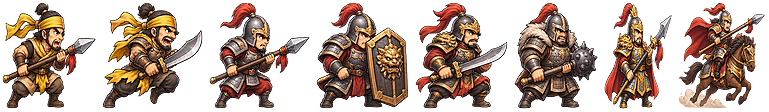
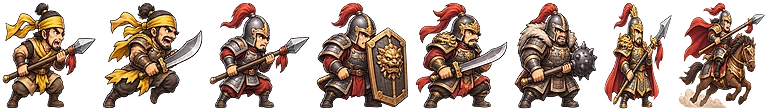
천하등용 v31.1: 용량 최적화 (초상화·잡병·아이콘 압축, BGM 재생 시 받기)
Claude-Session: https://claude.ai/code/session_01BVqfE2Sn6zpjLgsaXe4aDW

diff --git a/index.html b/index.html
@@ -2079,7 +2079,7 @@ window.sell=(orig=>function(i){const u=G.slots[i];if(u&&u.d.g>=2&&!(G.sellArm===
   RECIPES.push({out:'m_jangbi',in:['jangbi','gwanpyeong','madae']},{out:'m_samaui',in:['samaui','join','jangryo']},{out:'m_juyu',in:['juyu','yukson','hwanggae']},{out:'m_wonso',in:['wonso','anryang','munchu']});
   RECIPES.slice(-4).forEach(R=>R.in.forEach(id=>KEEP.add(id)));})();
 /* v30h→v30.3: 시나리오·끝없는 전장 음원 (보스가 나오면 보스 BGM). 끊김 수정: 잠금 해제가 재생 중인 곡을 멈추던 문제, 끊긴 곡 자동 재시도, 화면 나갔다 오면 이어 재생, 보스 뒤 전투곡 이어 듣기 */
-(function(){if(!window.Audio)return;const A={};const VOL={bgm_battle:.38,bgm_boss:.5,bgm_menu:.5};['bgm_battle','bgm_boss','bgm_menu'].forEach(k=>{try{const a=new Audio('audio/'+k+'.mp3');a.loop=true;a.preload=k==='bgm_menu'?'auto':'metadata';a.volume=VOL[k];A[k]=a;}catch(e){}});let cur=null,unl=false,bossT=0,tries=0;
+(function(){if(!window.Audio)return;const A={};const VOL={bgm_battle:.38,bgm_boss:.5,bgm_menu:.5};['bgm_battle','bgm_boss','bgm_menu'].forEach(k=>{try{const a=new Audio('audio/'+k+'.mp3');a.loop=true;a.preload='metadata';a.volume=VOL[k];A[k]=a;}catch(e){}});let cur=null,unl=false,bossT=0,tries=0;
   const play=a=>{try{const p=a.play();if(p&&p.catch)p.catch(()=>{});}catch(e){}};
   const set=w=>{if(cur===w){const a=cur&&A[cur];if(a&&a.paused&&tries<40){tries++;play(a);}return;}tries=0;if(cur&&A[cur])try{A[cur].pause();}catch(e){}cur=w;if(w&&A[w]){if(w==='bgm_boss')try{A[w].currentTime=0;}catch(e){}play(A[w]);}};
   const want=()=>{const ok=!!(SAVE.opt.bgm&&unl&&!document.hidden);if(!ok)return null;if(!(G&&!G.over))return 'bgm_menu';const boss=G.enemies.some(e=>e.boss);if(boss)bossT=Date.now();return (boss||Date.now()-bossT<2500)&&A.bgm_boss?'bgm_boss':'bgm_battle';};

diff --git a/zh.html b/zh.html
@@ -2074,7 +2074,7 @@ window.sell=(orig=>function(i){const u=G.slots[i];if(u&&u.d.g>=2&&!(G.sellArm===
   RECIPES.push({out:'m_jangbi',in:['jangbi','gwanpyeong','madae']},{out:'m_samaui',in:['samaui','join','jangryo']},{out:'m_juyu',in:['juyu','yukson','hwanggae']},{out:'m_wonso',in:['wonso','anryang','munchu']});
   RECIPES.slice(-4).forEach(R=>R.in.forEach(id=>KEEP.add(id)));})();
 /* v30h→v30.3: 시나리오·끝없는 전장 음원 (보스가 나오면 보스 BGM). 끊김 수정: 잠금 해제가 재생 중인 곡을 멈추던 문제, 끊긴 곡 자동 재시도, 화면 나갔다 오면 이어 재생, 보스 뒤 전투곡 이어 듣기 */
-(function(){if(!window.Audio)return;const A={};const VOL={bgm_battle:.38,bgm_boss:.5,bgm_menu:.5};['bgm_battle','bgm_boss','bgm_menu'].forEach(k=>{try{const a=new Audio('audio/'+k+'.mp3');a.loop=true;a.preload=k==='bgm_menu'?'auto':'metadata';a.volume=VOL[k];A[k]=a;}catch(e){}});let cur=null,unl=false,bossT=0,tries=0;
+(function(){if(!window.Audio)return;const A={};const VOL={bgm_battle:.38,bgm_boss:.5,bgm_menu:.5};['bgm_battle','bgm_boss','bgm_menu'].forEach(k=>{try{const a=new Audio('audio/'+k+'.mp3');a.loop=true;a.preload='metadata';a.volume=VOL[k];A[k]=a;}catch(e){}});let cur=null,unl=false,bossT=0,tries=0;
   const play=a=>{try{const p=a.play();if(p&&p.catch)p.catch(()=>{});}catch(e){}};
   const set=w=>{if(cur===w){const a=cur&&A[cur];if(a&&a.paused&&tries<40){tries++;play(a);}return;}tries=0;if(cur&&A[cur])try{A[cur].pause();}catch(e){}cur=w;if(w&&A[w]){if(w==='bgm_boss')try{A[w].currentTime=0;}catch(e){}play(A[w]);}};
   const want=()=>{const ok=!!(SAVE.opt.bgm&&unl&&!document.hidden);if(!ok)return null;if(!(G&&!G.over))return 'bgm_menu';const boss=G.enemies.some(e=>e.boss);if(boss)bossT=Date.now();return (boss||Date.now()-bossT<2500)&&A.bgm_boss?'bgm_boss':'bgm_battle';};

diff --git a/legion_ui.js b/legion_ui.js
@@ -44,7 +44,7 @@ function mount(ad){
     die:()=>{nz(.28,.2,700);tn(72,.32,'sine',.22,.6);},win:()=>[523,659,784,1047].forEach((f,i)=>tn(f,.4,'triangle',.11,0,i*.13)),lose:()=>[392,330,262].forEach((f,i)=>tn(f,.45,'triangle',.09,0,i*.2)),
     tap:()=>tn(880,.05,'square',.025),gong:()=>{tn(110,2.2,'sine',.24);tn(165,1.7,'sine',.09);nz(.3,.06,500);}};
   function sfx(k){try{if(k==='hit'){const t=performance.now();if(t-AU.lastHit<90)return;AU.lastHit=t;}const FM={hit:['sfx_hit',.3],big:['sfx_drum',.5],gong:['sfx_gong',.5],win:['sfx_victory',.6]};if(FM[k]&&playF(FM[k][0],FM[k][1]))return;SFX[k]&&SFX[k]();}catch(e){}}
-  const AF={};if(root.Audio)['bgm_legion','bgm_boss','bgm_menu','sfx_hit','sfx_gong','sfx_drum','sfx_victory'].forEach(k=>{try{const a=new root.Audio('audio/'+k+'.mp3');a.preload='auto';if(k.startsWith('bgm'))a.loop=true;AF[k]=a;}catch(e){}});
+  const AF={};if(root.Audio)['bgm_legion','bgm_boss','bgm_menu','sfx_hit','sfx_gong','sfx_drum','sfx_victory'].forEach(k=>{try{const a=new root.Audio('audio/'+k+'.mp3');a.preload=k.startsWith('bgm')?'metadata':'auto';if(k.startsWith('bgm'))a.loop=true;AF[k]=a;}catch(e){}});
   function playF(k,v){const a=AF[k];if(!a||AU.mute)return false;try{const c=k.startsWith('bgm')?a:a.cloneNode();c.volume=v;if(!k.startsWith('bgm'))c.currentTime=0;const pr=c.play();if(pr&&pr.catch)pr.catch(()=>{});}catch(e){return false;}return true;}
   function bgmFile(want){if(AU.cur===want){const a=want&&AF[want];if(a&&a.paused&&(AU.tries=(AU.tries|0)+1)<40)playF(want,want==='bgm_legion'?.38:.5);return;}AU.tries=0;if(AU.cur&&AF[AU.cur])try{AF[AU.cur].pause();}catch(e){}AU.cur=want;if(want){if(want==='bgm_boss')try{AF[want].currentTime=0;}catch(e){}playF(want,want==='bgm_legion'?.38:.5);}}
   const PENT=[294,330,392,440,494,587,659];

diff --git a/sw.js b/sw.js
@@ -1,5 +1,5 @@
 // Offline support: online -> newest files first, offline -> saved copy.
-const CACHE='cheonha-main-2';
+const CACHE='cheonha-main-3';
 // 이 캐시는 /cheonha/ 루트의 천하등용 파일만 다룬다. 다른 게임 폴더(town, wolchuk 등)는 건드리지 않는다.
 const OWN=/^(?:[^/]*|(?:art|audio|sd)\/.*)$/;
 const OLD=['cheonha-','cheonhav30sd-','cheonhav28test-','cheonhav20test-'];

diff --git a/docs/cheonha/HANDOFF.md b/docs/cheonha/HANDOFF.md
@@ -14,13 +14,13 @@
 - legion_core.js(전투 계산, step/dmg/cast 밸런스 기준) / legion_ui.js(캔버스 화면). 증원군(출전3+증원3, 관문 5/15/30 해금), 자동/수동, 군략 카드 3종.
 - platform.js: 통계 CH_TRACK + 보상형 광고 CH_AD (네 화면 공통, 미니게임 이식 때 이 파일만 교체). 실제 광고는 window.CHEONHA_REWARDED_AD.show({placement})→Promise<bool> 하나만 넣으면 전부 연결. ?stats=1 로 기기 통계 보기.
 - legal.html / legal-zh.html: 약관·개인정보(·健康游戏忠告). 붉은 칸 = 출시 전 입력할 운영자 정보.
-- sw.js(루트): 캐시 이름 `cheonha-main-N` (현재 2). 파일 바꾸면 N+1. 루트 파일과 art/·audio/·sd/만 다루고 다른 게임 폴더 요청은 통과시킴. 옛 천하등용 캐시(cheonha-·cheonhav30sd-·v28test·v20test)만 지움.
+- sw.js(루트): 캐시 이름 `cheonha-main-N` (현재 3). 파일 바꾸면 N+1. 루트 파일과 art/·audio/·sd/만 다루고 다른 게임 폴더 요청은 통과시킴. 옛 천하등용 캐시(cheonha-·cheonhav30sd-·v28test·v20test)만 지움.
 - audio/: bgm_menu·bgm_battle·bgm_boss·bgm_legion (사용자 제공 음원, battle_music·China Chinese Epic Music 출처 확인 필요).
 
 ## 검사 방법
 로컬 `python3 -m http.server` + Playwright(iPhone 13 landscape, serviceWorkers:'block'). `window.__sg`(G, newGame, update, recruit, render…), 관문 돌파는 `game.debug`(openForm, startBattle, scr). 중국어판 한글 누락은 fillText 가로채기로 검사.
 
 ## 남은 일
-- 🔴 출시 막는 것: 위챗·더우인 미니게임 이식(지금은 HTML 메뉴 구조 → 캔버스 전용 필요), 실제 광고 SDK 연결(자리는 platform.js로 통일 완료), 약관 붉은 칸 정보 입력, 음원 출처 2곡, 통계 외부 전송처 정하기(지금은 기기 저장만), 용량(전체 11MB, 미니게임 주 패키지 4MB → 분할).
+- 🔴 출시 막는 것: 위챗·더우인 미니게임 이식(지금은 HTML 메뉴 구조 → 캔버스 전용 필요), 실제 광고 SDK 연결(자리는 platform.js로 통일 완료), 약관 붉은 칸 정보 입력, 음원 출처 2곡, 통계 외부 전송처 정하기(지금은 기기 저장만), 용량(전체 10.1MB, 첫 접속 본편 2.7MB. 미니게임 주 패키지 4MB → 음원·배경은 분할 패키지로).
 - 결정(11-12): 한국판(웹) 먼저. 중국 미니게임은 판호·중국 운영사 필요 → 퍼블리셔 탐색과 캔버스 메뉴 구조 정리만 병행.
 - 보류: 세로 모드, 쓰러진 장수 세로 그림자, 관문 돌파 군단 확장(최대 9군단), 쇼츠, 신규 장수 49명·30스테이지, 한·중 분리 빌드, 난이도별 밸런스(플레이 피드백 받아 D.curve 조정).

diff --git a/docs/cheonha/V30_CHANGES.md b/docs/cheonha/V30_CHANGES.md
@@ -98,3 +98,11 @@
 - 관문 돌파 메뉴 숨김(파일·저장은 그대로, legion.html 주소로는 열림). 20분 천하통일·오늘의 전장 버튼은 계속 숨김
 - 설정: 저장 내보내기·불러오기(CH1: 코드)
 - 남은 것: 한·중 본편 파일 통합(지금은 새 코드만 공용), v22~v30 덮어쓰기 패치 정리, 광고 SDK·통계 전송·약관·음원 출처
+
+## v31.1 (11-16) 용량 최적화
+- portraits.webp 무손실 1,050KB → 손실 q88 322KB(눈으로 차이 없음 확인), mobs.webp 119KB → 57KB, icon-512.png 130KB → 29KB(256색)
+- 배경음악은 재생할 때 받기(메뉴곡 포함, 관문 돌파 BGM 3곡도). 효과음만 미리 받음
+- 첫 접속 받는 양: 본편 5.4MB → 2.7MB, 관문 돌파 8.9MB → 4.0MB. 천하등용 전체 파일 약 11.0MB → 10.1MB
+- 이미 손실 압축된 배경(scenario_map·title_bg·legion bg)은 다시 압축해도 거의 안 줄어 그대로 둠
+- SW 캐시 cheonha-main-3
+- 다음 후보: BGM 4곡(5MB) 음질 낮추기 또는 Opus 병행, 관문 돌파 배경 6장 관문별로 받기, SD 장수 그림 필요한 것만 받기
